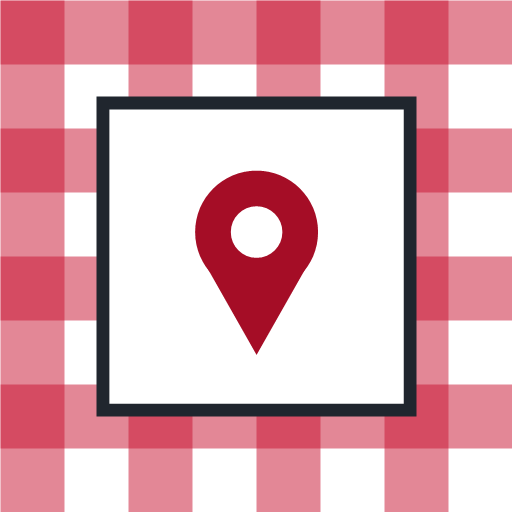
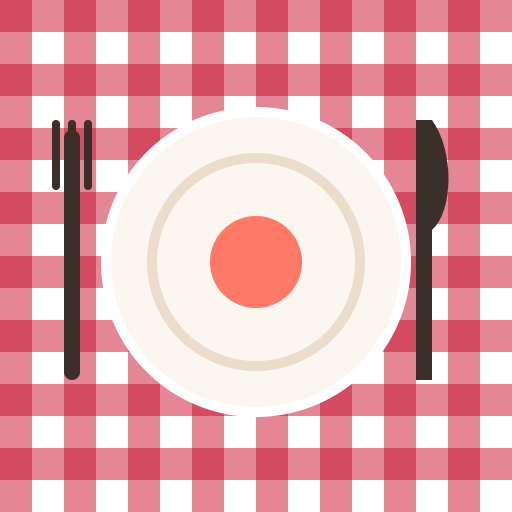
Publication 20261126T2127

diff --git a/index.html b/index.html
@@ -8,7 +8,8 @@
   <meta name="referrer" content="no-referrer" />
   <title>La Nappe</title>
   <link rel="manifest" href="./manifest.webmanifest" />
-  <link rel="icon" href="./icon-192.png" />
+  <link rel="icon" href="./favicon-32.png" sizes="32x32" />
+  <link rel="icon" href="./icon-192.png" sizes="192x192" />
   <link rel="apple-touch-icon" href="./apple-touch-icon.png" />
   <script type="module" crossorigin src="./assets/index-8Of5HKBD.js"></script>
   <link rel="stylesheet" crossorigin href="./assets/index-DdIiDWUc.css">
@@ -16,6 +17,6 @@
 <body>
   <header id="tete"></header>
   <main id="contenu"></main>
-  <nav id="onglets"></nav>
+  <nav id="onglets"></nav>
 </body>
 </html>

diff --git a/mentions.html b/mentions.html
@@ -5,7 +5,7 @@
   <meta name="viewport" content="width=device-width, initial-scale=1" />
   <meta http-equiv="Content-Security-Policy" content="default-src 'none'; style-src 'unsafe-inline'; img-src 'self'; base-uri 'none'; form-action 'none'" />
   <title>La Nappe · Mentions légales</title>
-  <link rel="icon" href="./icon-192.png" type="image/png" />
+  <link rel="icon" href="./favicon-32.png" type="image/png" />
   <style>
     :root { color-scheme: light; --bg: #fbf6ef; --fg: #3b2f2a; --muted: #8b7d74; --a: #d85c49; --line: #ecdccc; }
     body { margin: 0; background: var(--bg); color: var(--fg); font: 16px/1.6 system-ui, -apple-system, 'Segoe UI', sans-serif; }

diff --git a/confidentialite.html b/confidentialite.html
@@ -5,7 +5,7 @@
   <meta name="viewport" content="width=device-width, initial-scale=1" />
   <meta http-equiv="Content-Security-Policy" content="default-src 'none'; style-src 'unsafe-inline'; img-src 'self'; base-uri 'none'; form-action 'none'" />
   <title>La Nappe · Confidentialité</title>
-  <link rel="icon" href="./icon-192.png" type="image/png" />
+  <link rel="icon" href="./favicon-32.png" type="image/png" />
   <style>
     :root { color-scheme: light; --bg: #fbf6ef; --fg: #3b2f2a; --muted: #8b7d74; --a: #d85c49; --line: #ecdccc; }
     body { margin: 0; background: var(--bg); color: var(--fg); font: 16px/1.6 system-ui, -apple-system, 'Segoe UI', sans-serif; }

diff --git a/credits.html b/credits.html
@@ -5,7 +5,7 @@
   <meta name="viewport" content="width=device-width, initial-scale=1" />
   <meta http-equiv="Content-Security-Policy" content="default-src 'none'; style-src 'unsafe-inline'; img-src 'self'; base-uri 'none'; form-action 'none'" />
   <title>La Nappe · Crédits</title>
-  <link rel="icon" href="./icon-192.png" type="image/png" />
+  <link rel="icon" href="./favicon-32.png" type="image/png" />
   <style>
     :root { color-scheme: light; --bg: #fbf6ef; --fg: #3b2f2a; --muted: #8b7d74; --a: #d85c49; --line: #ecdccc; }
     body { margin: 0; background: var(--bg); color: var(--fg); font: 16px/1.6 system-ui, -apple-system, 'Segoe UI', sans-serif; }

diff --git a/sw.js b/sw.js
@@ -2,7 +2,7 @@
 // Page d'accueil : réseau d'abord ; le reste : cache d'abord, mise à jour en arrière-plan.
 // Le fond de carte, la recherche et les stations viennent d'autres sites : ils ne sont pas mis en cache.
 // CACHE est remplacé à chaque compilation (vite.config.js).
-const CACHE = 'lanappe-20261126T2124';
+const CACHE = 'lanappe-20261126T2127';
 
 self.addEventListener('install', () => self.skipWaiting());
 self.addEventListener('activate', (e) => {
